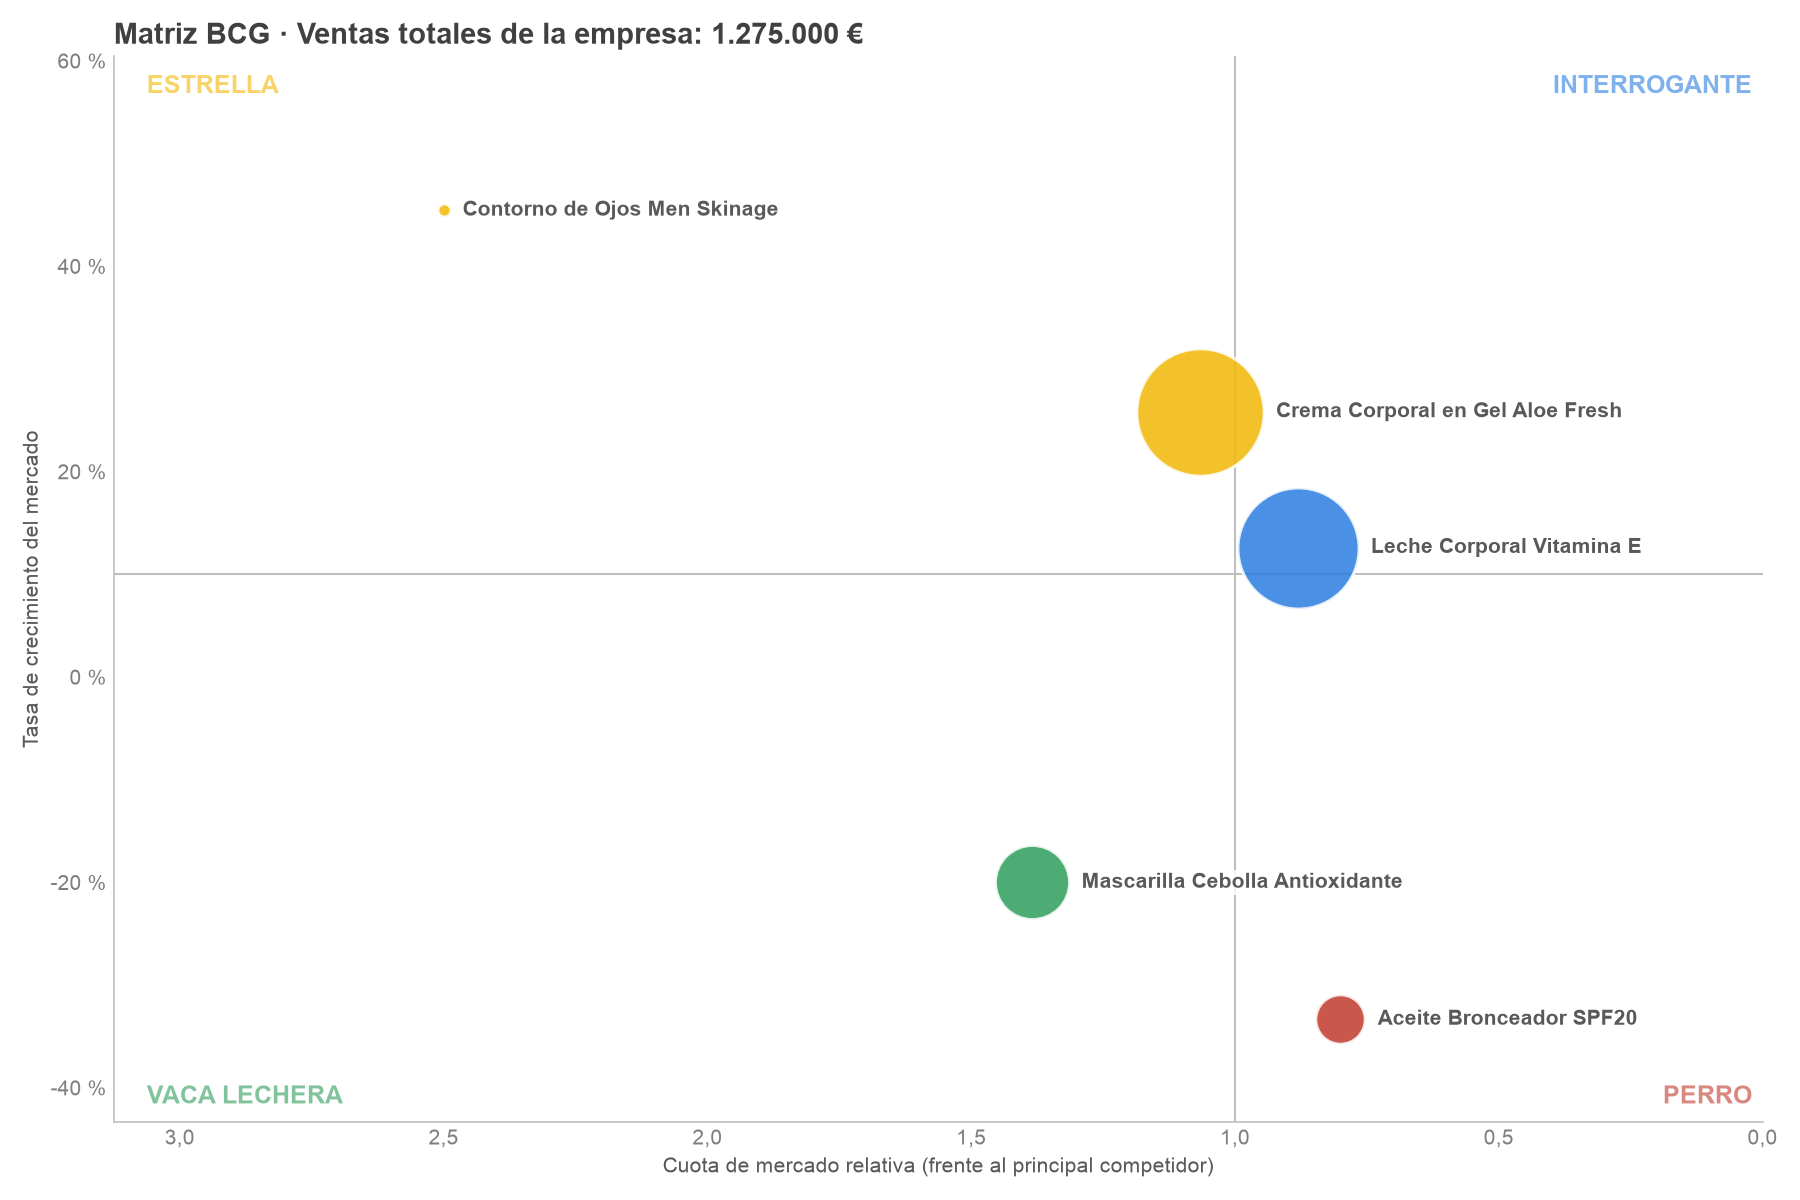
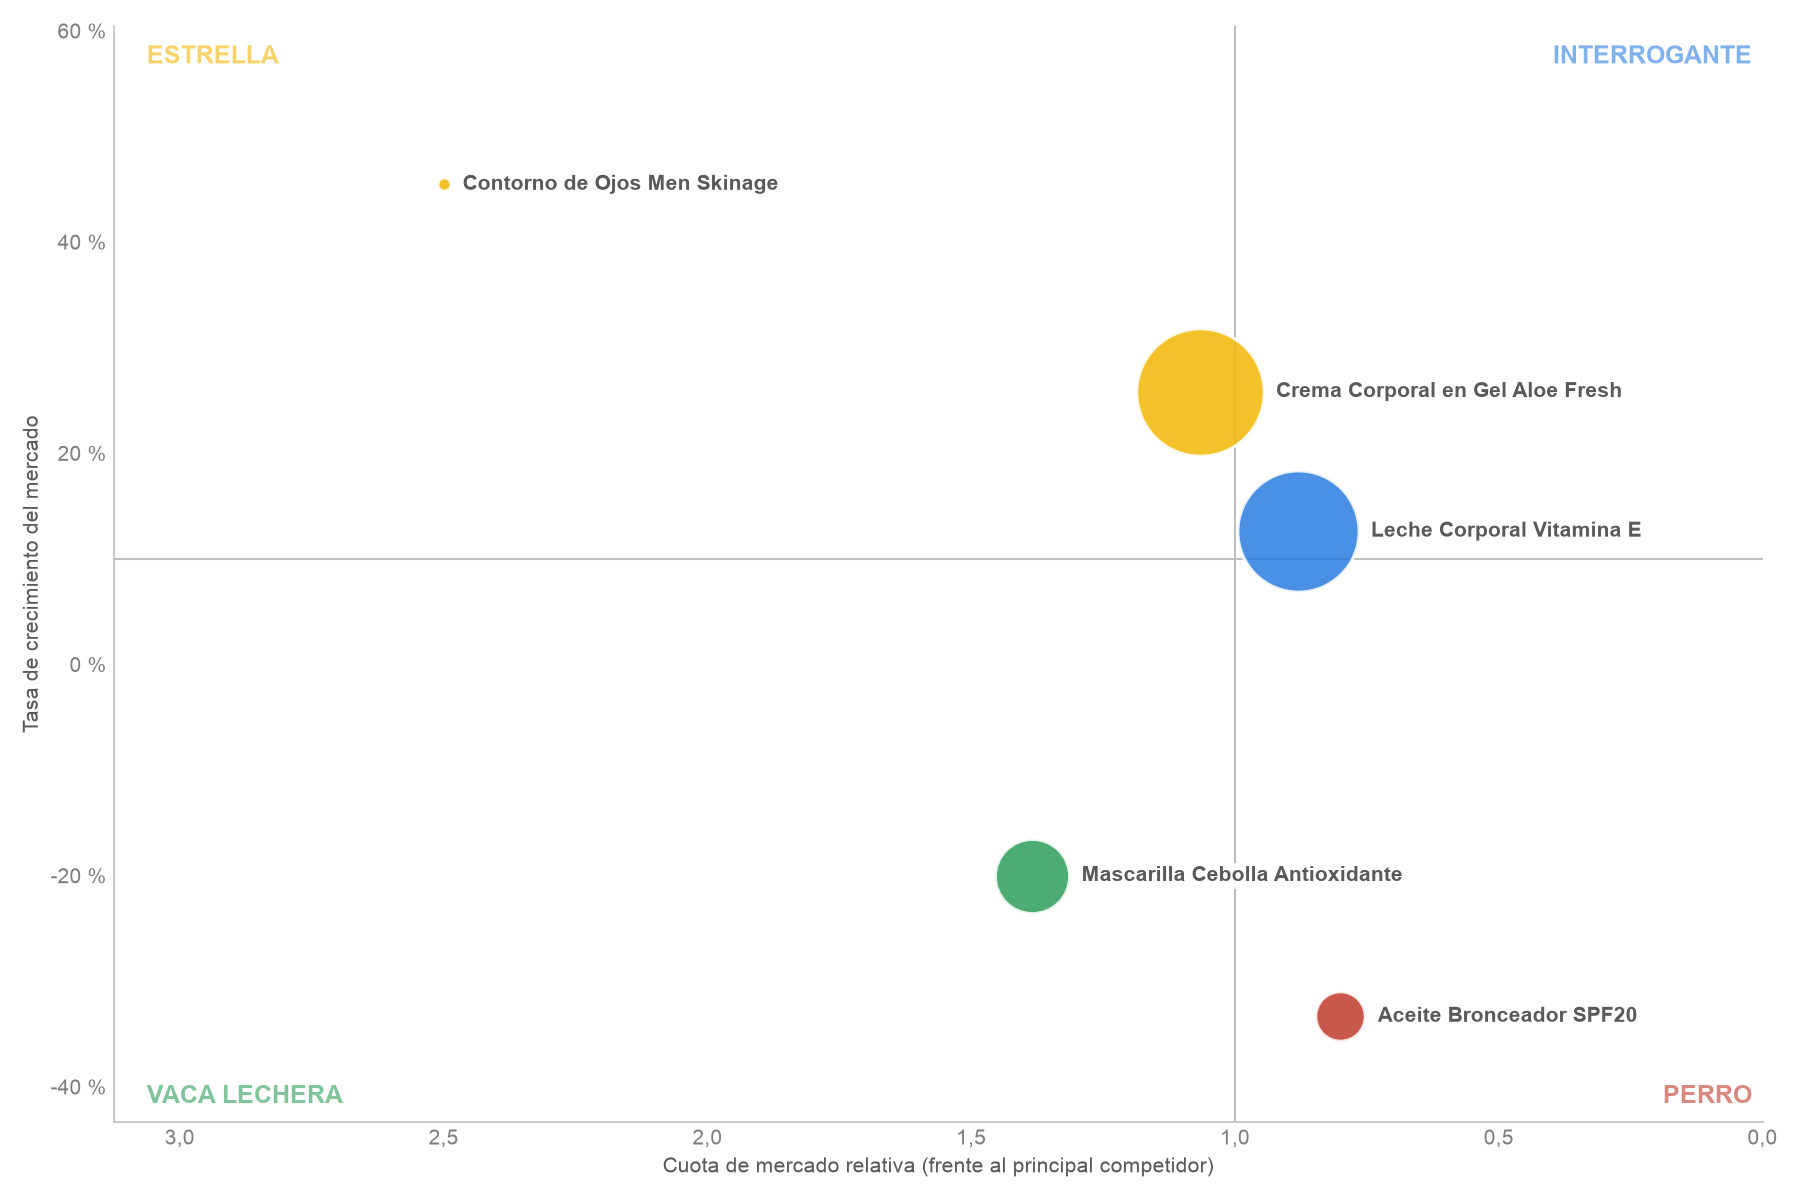
Quitar el título del gráfico

diff --git a/verificar_matriz_bcg.py b/verificar_matriz_bcg.py
@@ -111,7 +111,7 @@ def imprimir_tabla(df, total):
 
 
 # ---------- Gráfico ----------
-def dibujar(df, total):
+def dibujar(df):
     plt.rcParams["font.family"] = ["Arial", "DejaVu Sans"]
     fig, ax = plt.subplots(figsize=(12, 8))
 
@@ -151,8 +151,6 @@ def dibujar(df, total):
     ax.yaxis.set_major_formatter(lambda v, _: porcentaje(v, 0))
     ax.set_xlabel("Cuota de mercado relativa (frente al principal competidor)", color="#595959")
     ax.set_ylabel("Tasa de crecimiento del mercado", color="#595959")
-    ax.set_title(f"Matriz BCG · Ventas totales de la empresa: {miles(total)} €",
-                 loc="left", fontsize=14, weight="bold", color="#404040")
     for lado in ("top", "right"):
         ax.spines[lado].set_visible(False)
     for lado in ("left", "bottom"):
@@ -249,7 +247,7 @@ def main():
     df, total = cargar_y_calcular()
     imprimir_tabla(df, total)
     comparar_con_excel(df)
-    dibujar(df, total)
+    dibujar(df)
 
 
 if __name__ == "__main__":
